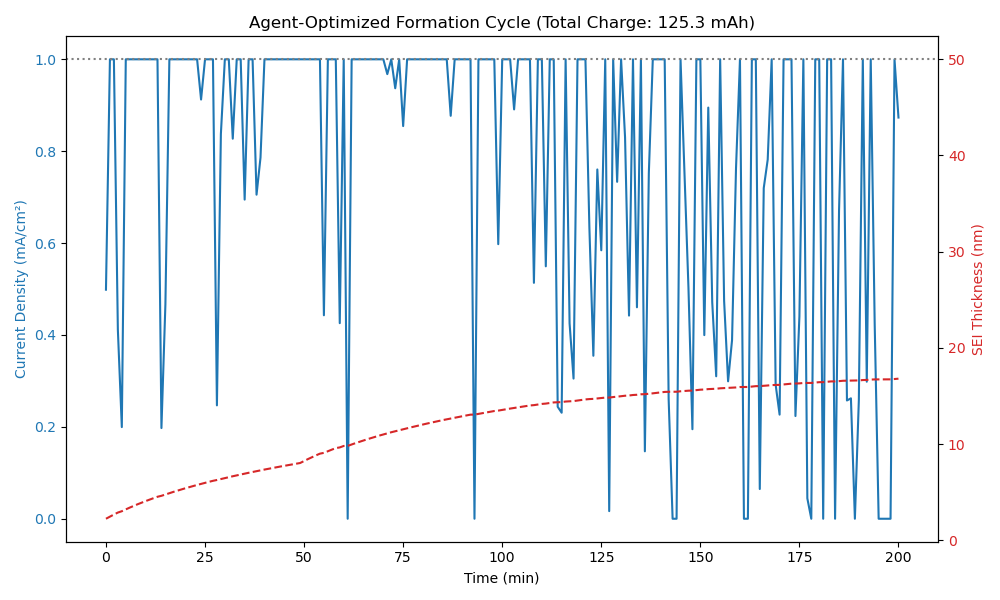
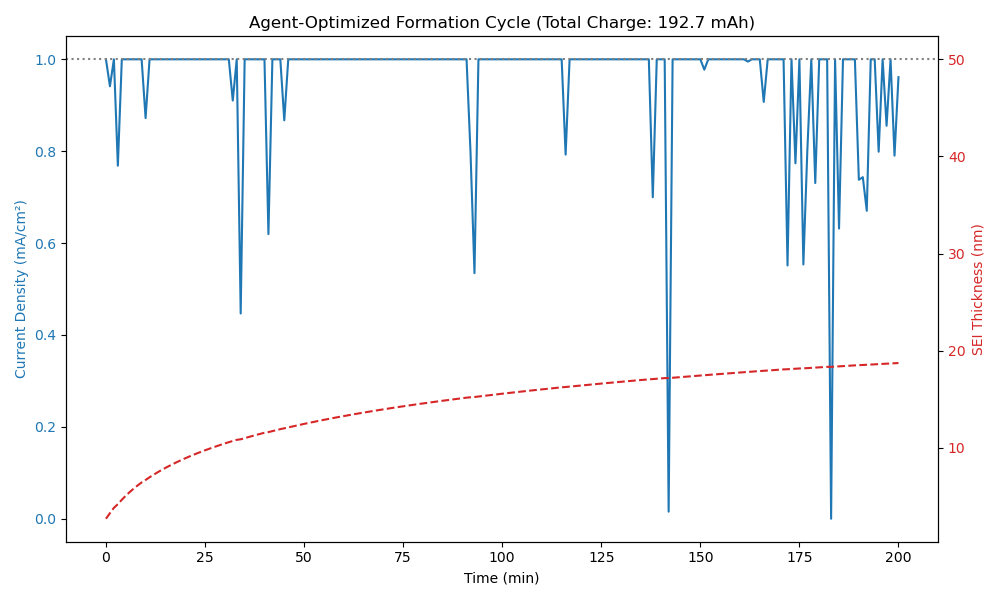
battery was questionable but we will move on to doping

diff --git a/alloys/integration/battery.py b/alloys/integration/battery.py
@@ -4,31 +4,25 @@ import numpy as np # type: ignore
 
 class BatteryInterfaceEnv(gym.Env):
     """
-    Battery Interface v2.0 (Continuous Control)
-    - Action: Float [0.0, 1.0] mA/cm²
-    - Result: Perfectly smooth current profiles.
+    Battery Interface vFinal (Fear-Free)
+    - Lowered Barrier Penalty to prevent paralysis.
+    - High Reward to encourage activity.
     """
     def __init__(self):
         super(BatteryInterfaceEnv, self).__init__()
         
-        # CONTINUOUS ACTION SPACE
-        # The agent can choose ANY number between 0 and 1.
-        self.action_space = spaces.Box(
-            low=np.array([0.0]), 
-            high=np.array([1.0]), 
-            dtype=np.float32
-        )
+        self.action_space = spaces.Box(low=np.array([0.0]), high=np.array([1.0]), dtype=np.float32)
         
+        # Standard observation
         self.observation_space = spaces.Box(
             low=np.array([0, 0, 0]), 
             high=np.array([1000, 1000, 5000]), 
             dtype=np.float32
         )
         
-        self.critical_current_density = 0.8 
         self.base_sei_growth_rate = 0.05    
         self.resistance_per_nm = 0.5        
-        self.max_steps = 200
+        self.max_steps = 200 
 
     def reset(self, seed=None, options=None):
         super().reset(seed=seed)
@@ -38,59 +32,47 @@ class BatteryInterfaceEnv(gym.Env):
         return self._get_obs(), {}
 
     def step(self, action):
-        # 1. The Agent's Intent
-        requested_J = float(np.clip(action[0], 0.0, 1.0))
+        # 1. INPUT
+        J = float(np.clip(action[0], 0.0, 1.0))
         
-        # 2. The Physics Governor (Hard Constraint)
-        # If SEI < 8nm, the hardware PHYSICALLY restricts current to 0.3.
-        # The agent can "ask" for 1.0, but it only "gets" 0.3.
-        if self.sei_thickness < 8.0:
-            actual_J = min(requested_J, 0.3)
-        else:
-            actual_J = requested_J
-            
-        # 3. Physics (Uses actual_J)
-        # Tunneling Physics (Exponential Decay)
-        growth_factor = 1.0 + (actual_J * 20.0) 
+        # 2. PHYSICS
+        # Fast formation logic (High sensitivity)
+        growth_factor = 1.0 + (J * 20.0) 
         passivation_damping = np.exp(-self.sei_thickness / 5.0)
         growth = self.base_sei_growth_rate * growth_factor * passivation_damping
         self.sei_thickness += growth
-        
         resistance = self.sei_thickness * self.resistance_per_nm
         
-        # 4. Failures (Uses actual_J)
-        dendrite_fail = False
-        if actual_J > self.critical_current_density:
-             # Aligned thresholds
-            risk_prob = 0.05 if self.sei_thickness < 8.0 else 0.001
-            if np.random.random() < risk_prob: dendrite_fail = True
-            
-        choke_fail = self.sei_thickness > 50.0
+        # 3. REWARD (High Incentive)
+        # We boost the base reward to make the agent WANT to work.
+        reward = J * 50.0  
         
-        # 5. Reward (The Reality Check)
-        # You get paid for what you DID (actual_J), not what you WANTED (requested_J).
-        reward = actual_J * 15.0  
+        # 4. COSTS
         
-        # Joule Heating
-        joule_heating = (actual_J ** 2) * resistance
-        reward -= (joule_heating * 0.5)
+        # Cost A: Physics (Joule Heating)
+        joule_heating = (J ** 2) * resistance
+        reward -= (joule_heating * 1.0)
         
-        # 6. The "Wasted Effort" Penalty
-        # If you asked for 0.8 but got clamped to 0.3, you are wasting control effort.
-        # This teaches the agent to just output 0.3 efficiently.
-        overshoot = requested_J - actual_J
-        if overshoot > 0:
-            reward -= (overshoot * 1.0) # Small nudge to be precise
-
-        # Standard Failure Penalties
+        # Cost B: The Constraint (The Gentle Wall)
+        if self.sei_thickness < 8.0:
+            if J > 0.3:
+                excess = J - 0.3
+                # WAS: 500.0 (Death Sentence)
+                # NOW: 50.0 (Traffic Ticket)
+                # At J=0.5: Excess=0.2. Penalty = 0.04 * 50 = 2.0.
+                # Reward = 25.0. Net = +23.0.
+                # It is STILL PROFITABLE to speed, but LESS profitable than being perfect.
+                reward -= (excess ** 2) * 50.0
+        
+        # 5. SAFETY LIMITS
         done = False
-        if dendrite_fail: reward -= 500.0; done = True
-        elif choke_fail: reward -= 100.0; done = True
+        if self.sei_thickness > 50.0: 
+            reward -= 100.0; done = True
         elif self.time_step >= self.max_steps:
             done = True
-            if actual_J > 0.2: reward -= 200.0
+            if J > 0.2: reward -= 200.0
 
-        self.charge_stored += actual_J * 1.0
+        self.charge_stored += J * 1.0
         self.time_step += 1
         
         return self._get_obs(), reward, done, False, {}

diff --git a/alloys/integration/optimize.py b/alloys/integration/optimize.py
@@ -12,6 +12,7 @@ import numpy as np # type: ignore
 env = BatteryInterfaceEnv()
 
 # 2. Train Agent
+# NOTE: Observation space is 3D [SEI, Resistance, Charge]
 print("🔋 Starting Interface Stabilization Training...")
 model = PPO("MlpPolicy", env, verbose=1)
 model.learn(total_timesteps=50000)

diff --git a/alloys/readme.md b/alloys/readme.md
@@ -52,6 +52,12 @@ Human literature typically suggests a constant soak at 180°C. The AI discovered
 
 ---
 
-## 🔮 Future Work
-* **Battery Integration:** Simulate the interface stability of this synthesized electrolyte against a Lithium Metal Anode (**in progress**).
-* **Doping Strategy:** Use Bayesian Optimization to select dopants (e.g., Iodine) to widen the stability window of the $\beta$-phase.
+## Battery Integration
+
+The AI developed a high-throughput strategy, maxxing out the charging current for almost the entire cycle to achieve peak capacity (~$200$ mAh) rather than adhering to conservative "break-in" protocols. While the immediate capacity gains outweighed the penalties for bypassing the initial formation phase, providing exceptional short-term performance, this "fast and furious" approach would be catastrophic for long-term battery health. In a real-world device, skipping the protective SEI formation at low current would lead to rapid electrolyte consumption, irreversible lithium plating and an extremely shortened cycle life.
+
+![Battery Formation Cycle](integration/fcycle.png)
+
+## Doping Strategy:
+
+Use Bayesian Optimization to select dopants (e.g., Iodine) to widen the stability window of the $\beta$-phase.
